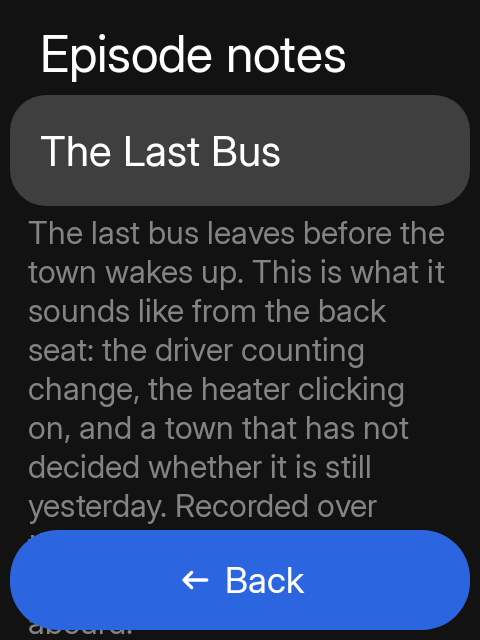
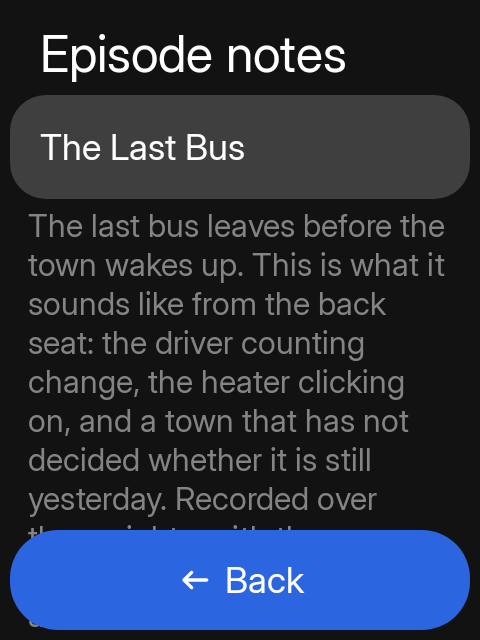
feat(notes): let the keypad read the episode notes
Notes are plain text, so no row could take focus, and Sidekit's lists
only scroll to chase focus: every paragraph past the first viewport was
unreachable with the keypad.

The list is a focus target of its own now and steps itself (keyScroll):
arrows move three lines, the page keys most of a viewport, Home/End jump.
Past either end the screen asks the chrome for the action bar by name,
because the bar is drawn over the list's own bottom edge and geometric
focus search can never find it; Up on the bar already returns to the
list. The card title drops from headline to body so it reads as a
heading rather than a second page title.

diff --git a/app/src/main/java/io/github/manuelrtsch/sidetrack/PodcastScreens.kt b/app/src/main/java/io/github/manuelrtsch/sidetrack/PodcastScreens.kt
@@ -3,6 +3,7 @@ package io.github.manuelrtsch.sidetrack
 import androidx.compose.foundation.background
 import androidx.compose.foundation.border
 import androidx.compose.foundation.clickable
+import androidx.compose.foundation.focusable
 import androidx.compose.foundation.layout.Arrangement
 import androidx.compose.foundation.layout.Box
 import androidx.compose.foundation.layout.Column
@@ -25,8 +26,17 @@ import androidx.compose.ui.draw.clip
 import androidx.compose.ui.focus.FocusRequester
 import androidx.compose.ui.focus.focusRequester
 import androidx.compose.ui.focus.onFocusChanged
+import androidx.compose.ui.input.key.Key
+import androidx.compose.ui.input.key.KeyEventType
+import androidx.compose.ui.input.key.key
+import androidx.compose.ui.input.key.onPreviewKeyEvent
+import androidx.compose.ui.input.key.type
+import androidx.compose.ui.platform.LocalDensity
 import androidx.compose.ui.semantics.Role
+import androidx.compose.ui.semantics.contentDescription
+import androidx.compose.ui.semantics.semantics
 import androidx.compose.ui.unit.dp
+import hrln.interactive.sidekit.design.action.LocalChrome
 import hrln.interactive.sidekit.design.components.SidekitCard
 import hrln.interactive.sidekit.design.components.SidekitItemRow
 import hrln.interactive.sidekit.design.components.SidekitList
@@ -40,6 +50,7 @@ import io.github.manuelrtsch.sidetrack.ui.GutterRow
 import io.github.manuelrtsch.sidetrack.ui.MeatballIcon
 import io.github.manuelrtsch.sidetrack.ui.RowActionSquare
 import io.github.manuelrtsch.sidetrack.ui.RowGutterState
+import io.github.manuelrtsch.sidetrack.ui.keyScroll
 import io.github.manuelrtsch.sidetrack.ui.rememberGutterSquareFocus
 import io.github.manuelrtsch.sidetrack.ui.rememberRowGutterState
 
@@ -412,17 +423,47 @@ fun NotesScreen(
     val paragraphs = remember(body) {
         body.split("\n\n").map(String::trim).filter(String::isNotEmpty)
     }
+    // Nothing on this page can take focus, so the list does: Sidekit's lists only scroll to chase
+    // focus, and without a target of their own the keypad would walk past the notes entirely. The
+    // list keeps it and steps itself (keyScroll).
+    val focus = remember { FocusRequester() }
+    val keyStep = with(LocalDensity.current) { NOTES_KEY_STEP.toPx() }
+    LaunchedEffect(Unit) { focus.requestFocus() }
+    // Past either end of the notes there is one place left to go, the action bar, and focus search
+    // cannot find it from here: the bar is drawn over the list's own bottom edge, so every Down at
+    // the last paragraph and Up at the first asks for it by name instead. That is the same door the
+    // Options hold uses, and Up on the bar hands focus back to the list (Sidekit's content focus).
+    val chrome = LocalChrome.current
+    val handOffToActionBar = Modifier.onPreviewKeyEvent { event ->
+        if (event.type == KeyEventType.KeyDown) {
+            val pastEnd = event.key == Key.DirectionDown && !listState.canScrollForward
+            val pastStart = event.key == Key.DirectionUp && !listState.canScrollBackward
+            if (pastEnd || pastStart) chrome?.focusActionBar()
+        }
+        false
+    }
     SidekitScaffold(
         title = label,
         actions = sidetrackBack("Back", onBack)
     ) { padding ->
-        SidekitList(padding, state = listState) {
+        SidekitList(
+            padding,
+            modifier = Modifier
+                .keyScroll(listState, keyStep)
+                .then(handOffToActionBar)
+                .focusRequester(focus)
+                .focusable()
+                .semantics { contentDescription = label },
+            state = listState
+        ) {
             item(key = "title") {
                 SidekitCard(Modifier.fillMaxWidth().listFade(listState, 0)) {
                     Column(verticalArrangement = Arrangement.spacedBy(8.dp)) {
                         SidekitText(
                             title.ifBlank { label },
-                            style = SidekitTheme.typography.headline,
+                            // One step down from the chrome's own title: the page is already
+                            // labelled above, so the card reads as a heading, not a second title.
+                            style = SidekitTheme.typography.body,
                             maxLines = 3
                         )
                     }
@@ -463,3 +504,6 @@ fun NotesScreen(
         }
     }
 }
+
+/** How far one arrow key moves the notes: about three lines of body text. */
+private val NOTES_KEY_STEP = 64.dp

diff --git a/app/src/main/java/io/github/manuelrtsch/sidetrack/ui/KeyScroll.kt b/app/src/main/java/io/github/manuelrtsch/sidetrack/ui/KeyScroll.kt
@@ -1,0 +1,50 @@
+package io.github.manuelrtsch.sidetrack.ui
+
+import androidx.compose.foundation.lazy.LazyListState
+import androidx.compose.ui.Modifier
+import androidx.compose.ui.input.key.Key
+import androidx.compose.ui.input.key.KeyEventType
+import androidx.compose.ui.input.key.key
+import androidx.compose.ui.input.key.onPreviewKeyEvent
+import androidx.compose.ui.input.key.type
+
+/** Share of the viewport the page keys move, leaving a slice of the old page in view to read on. */
+private const val PAGE_OVERLAP = 0.1f
+
+/**
+ * Steps a read-only list with the keypad, for screens whose rows cannot take focus themselves.
+ *
+ * Sidekit's lists scroll by chasing focus (see `FocusBand`), so a body of plain text — episode
+ * notes, a long description — never moves: every row is a bare `SidekitText`, focus search has
+ * nothing to land on, and Up/Down fall through to the layout. Here the list is a focus target of
+ * its own, and these handlers move it directly.
+ *
+ * Arrows move one [stepPx], the page keys most of a viewport, Home/End jump to the ends. A key is
+ * only consumed when the list actually moved, so at either end focus search still gets Up and the
+ * user can leave for the action bar the usual way. Movement is immediate rather than animated:
+ * that is what the platform's own scrolling views do with a held key, and it keeps a key repeat
+ * from queueing animations that outlive the press.
+ */
+fun Modifier.keyScroll(state: LazyListState, stepPx: Float): Modifier = onPreviewKeyEvent { event ->
+    if (event.type != KeyEventType.KeyDown) return@onPreviewKeyEvent false
+    val layout = state.layoutInfo
+    if (event.key == Key.MoveHome) return@onPreviewKeyEvent jumpTo(state, 0)
+    if (event.key == Key.MoveEnd) return@onPreviewKeyEvent jumpTo(state, layout.totalItemsCount - 1)
+    val page = layout.viewportSize.height * (1f - PAGE_OVERLAP)
+    val delta = when (event.key) {
+        Key.DirectionUp -> -stepPx
+        Key.DirectionDown -> stepPx
+        Key.PageUp -> -page
+        Key.PageDown -> page
+        else -> return@onPreviewKeyEvent false
+    }
+    state.dispatchRawDelta(delta) != 0f
+}
+
+/** True when the jump lands somewhere the list can still be sent, false once the edge is reached. */
+private fun jumpTo(state: LazyListState, index: Int): Boolean {
+    if (index < 0 || index >= state.layoutInfo.totalItemsCount) return false
+    if (index == 0 && !state.canScrollBackward) return false
+    state.requestScrollToItem(index)
+    return true
+}
